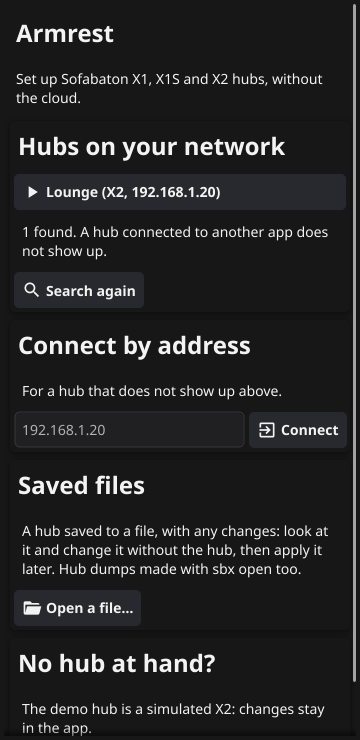
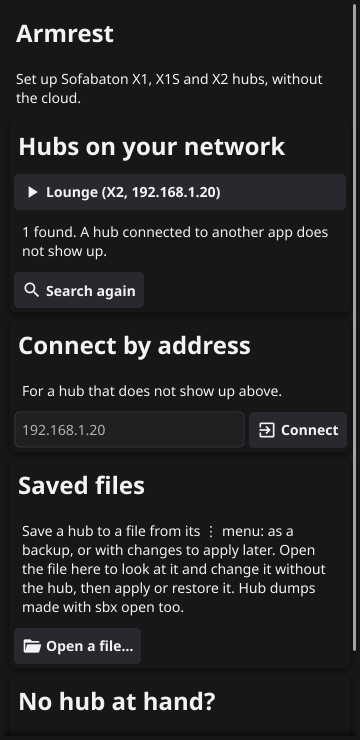
Backup and restore
A saved file is a backup: "Restore to a hub…" in the file's menu, or
applying its changes, makes a hub hold what the file has. On its own
hub as it was, that is just the file's changes. On its hub changed
since (matched by id, so renames are renamed back) or on another hub
(matched by name, the hub's others deleted), the user agrees to a
restore first, then reviews every change. Undo takes it back before
anything is written.

Changed region(s): [[0.0306, 0.6838, 0.9167, 0.9946], [0.6722, 0.9324, 0.8861, 0.9635], [0.9778, 0.8703, 1.0, 0.9324]]

diff --git a/internal/ui/files_test.go b/internal/ui/files_test.go
@@ -2,7 +2,9 @@ package ui
 
 import (
 	"bytes"
+	"context"
 	"io"
+	"net/netip"
 	"strings"
 	"testing"
 	"time"
@@ -11,6 +13,9 @@ import (
 	"fyne.io/fyne/v2/test"
 
 	"github.com/brunoga/armrest/internal/backend"
+	"github.com/brunoga/armrest/internal/demo"
+	"github.com/brunoga/sofabaton/hub"
+	"github.com/brunoga/sofabaton/hubsim"
 )
 
 // memFile is a file the test pickers save to and open.
@@ -95,7 +100,7 @@ func TestFiles(t *testing.T) {
 	}
 }
 
-// A file applied to another hub is refused, and stays open.
+// A file applied to another hub restores it there, once the user agrees.
 func TestFileOtherHub(t *testing.T) {
 	u, w := newApp(t, backend.Hub{Name: "Lounge", Model: "X2", Firmware: 9, Addr: lounge})
 	var f memFile
@@ -105,20 +110,86 @@ func TestFileOtherHub(t *testing.T) {
 	if err := u.work.RemoveActivity("Play PC"); err != nil {
 		t.Fatal(err)
 	}
-	var b bytes.Buffer
 	d := *u.work.Dump
-	d.Info.ID = "0123456789ab"
+	d.Info.ID, d.Info.Name = "0123456789ab", "Bedroom"
 	u.work.Dump = &d
-	if err := u.work.Save(&b, time.Time{}); err != nil {
+	if err := u.work.Save(&f, time.Time{}); err != nil {
 		t.Fatal(err)
 	}
-	f.Write(b.Bytes())
 	menu(t, u, "Disconnect")
 	test.Tap(button(t, w, "Open a file…"))
-	test.Tap(button(t, w, "Review changes"))
-	test.Tap(button(t, w, "Connect to the hub and apply"))
+	menu(t, u, "Restore to a hub…")
 	test.Tap(button(t, w, "Lounge (X2, 192.168.1.20)"))
-	if got := texts(w); !strings.Contains(got, "is not the hub other.armrest is from") || u.file == nil || u.client != nil {
-		t.Fatalf("applied to another hub:\n%s", got)
+	if got := texts(w); !strings.Contains(got, "Restore onto another hub") || !strings.Contains(got, "saved from another hub, Bedroom") {
+		t.Fatalf("not asked:\n%s", got)
+	}
+	test.Tap(button(t, w, "Review"))
+	got := texts(w)
+	if !strings.Contains(got, "Delete activity Play PC") || u.file != nil {
+		t.Fatalf("the restore's review:\n%s", got)
+	}
+	test.Tap(button(t, w, "Apply to the hub"))
+	if got := texts(w); !strings.Contains(got, "Your changes are on the hub.") || listed(u, "Play PC") {
+		t.Fatalf("after restoring:\n%s", got)
+	}
+}
+
+// A backup restored onto its hub, changed since, undoes the change; or
+// Cancel goes back to the file.
+func TestBackup(t *testing.T) {
+	u, w := newApp(t, backend.Hub{Name: "Lounge", Model: "X2", Firmware: 9, Addr: lounge})
+	d, _ := demo.Dump()
+	m, err := d.Model()
+	if err != nil {
+		t.Fatal(err)
+	}
+	sim := hubsim.FromModel(m) // one hub, kept across connections
+	u.back.Dial = func(ctx context.Context, _ netip.Addr) (*hub.Client, error) {
+		return hub.Open(ctx, hubsim.Pipe(sim), hub.Options{})
+	}
+	var f memFile
+	var name string
+	filePickers(u, &f, &name)
+	test.Tap(button(t, w, "Lounge (X2, 192.168.1.20)"))
+	menu(t, u, "Save to a file…")
+	if !strings.Contains(texts(w), "Saved the hub to a file.") {
+		t.Fatalf("saving:\n%s", texts(w))
+	}
+	// The hub changes.
+	if err := u.work.RemoveActivity("Play PC"); err != nil {
+		t.Fatal(err)
+	}
+	u.backToBrowse()
+	test.Tap(button(t, w, "Review changes"))
+	test.Tap(button(t, w, "Apply to the hub"))
+	if listed(u, "Play PC") {
+		t.Fatal("not deleted")
+	}
+	menu(t, u, "Disconnect")
+
+	test.Tap(button(t, w, "Open a file…"))
+	if !listed(u, "Play PC") || u.browse.changes.Visible() {
+		t.Fatal("the backup")
+	}
+	restore := func() {
+		menu(t, u, "Restore to a hub…")
+		test.Tap(button(t, w, "Lounge (X2, 192.168.1.20)"))
+		if got := texts(w); !strings.Contains(got, "The hub changed since") {
+			t.Fatalf("not asked:\n%s", got)
+		}
+	}
+	restore()
+	test.Tap(button(t, w, "Cancel"))
+	if u.client != nil || u.file == nil || !listed(u, "Play PC") {
+		t.Fatal("cancel did not go back to the file")
+	}
+	restore()
+	test.Tap(button(t, w, "Review"))
+	if got := texts(w); !strings.Contains(got, "Add activity Play PC") {
+		t.Fatalf("the restore's review:\n%s", got)
+	}
+	test.Tap(button(t, w, "Apply to the hub"))
+	if got := texts(w); !strings.Contains(got, "Your changes are on the hub.") || !listed(u, "Play PC") || u.work.Changed() {
+		t.Fatalf("after restoring:\n%s", got)
 	}
 }

diff --git a/internal/ui/files.go b/internal/ui/files.go
@@ -149,20 +149,17 @@ func (a *App) applyFile() {
 	a.showHubs()
 }
 
-// adoptFile takes the opened file's changes onto w, its hub just read
-// from h, and reviews them.
+// adoptFile takes the opened file onto w, its hub (or another) just read
+// from h, and reviews what applying it writes. On the hub it was saved
+// from, as it was then, that is the file's changes; on a hub changed
+// since, or on another, applying it restores the file there, which the
+// user agrees to first.
 func (a *App) adoptFile(h backend.Hub, w *workspace.Workspace) {
 	f := a.file
 	info := a.client.Info()
-	if id := hex.EncodeToString(info.ID[:]); id != f.work.Dump.Info.ID {
-		a.Close()
-		a.showHubs()
-		dialog.ShowInformation("Another hub",
-			fmt.Sprintf("%s is not the hub %s is from (%s). Connect to that one to apply the file.", info.Name, f.name, f.work.Dump.Info.Name), a.win)
-		return
-	}
-	a.file = nil
-	if !f.work.Changed() || f.work.SameBase(w) {
+	sameHub := hex.EncodeToString(info.ID[:]) == f.work.Dump.Info.ID
+	if sameHub && f.work.SameBase(w) {
+		a.file = nil
 		w.KeepEdits(f.work)
 		a.work = w
 		a.remember(h, w)
@@ -170,11 +167,32 @@ func (a *App) adoptFile(h backend.Hub, w *workspace.Workspace) {
 		if w.Changed() {
 			a.showReview()
 		} else {
-			a.browse.setStatus(false, "The file has no changes to apply.")
+			a.browse.setStatus(false, "The hub is as the file has it: there is nothing to apply.")
 		}
 		return
 	}
-	// The hub changed since the file's copy of it was read.
-	a.work = f.work
-	a.hubChangedUnderEdits(w)
+	title := "The hub changed since"
+	text := fmt.Sprintf("%s was changed since %s was saved. Applying the file makes the hub as the file has it again, undoing those changes too.", info.Name, f.name)
+	if !sameHub {
+		title = "Restore onto another hub"
+		text = fmt.Sprintf("%s was saved from another hub, %s. Applying it makes %s hold what the file has: devices and activities are matched by name, those it lacks are added, and its others are deleted.", f.name, f.work.Dump.Info.Name, info.Name)
+	}
+	text += " You see every change before anything is written."
+	dialog.NewCustomConfirm(title, "Review", "Cancel", wrapped(text), func(ok bool) {
+		if !ok {
+			// Back to the file, as it was.
+			a.Close()
+			a.showFile()
+			return
+		}
+		if err := w.Restore(f.work.Config, sameHub); err != nil {
+			dialog.ShowError(fmt.Errorf("the file cannot be restored: %w", err), a.win)
+			return
+		}
+		a.file = nil
+		a.work = w
+		a.remember(h, w)
+		a.showBrowse(h)
+		a.showReview()
+	}, a.win).Show()
 }

diff --git a/internal/workspace/file_test.go b/internal/workspace/file_test.go
@@ -46,3 +46,65 @@ func TestSaveOpen(t *testing.T) {
 		}
 	}
 }
+
+// A file restored onto a hub is matched to it by name, whatever its ids:
+// applying makes the hub hold the file.
+func TestRestore(t *testing.T) {
+	ctx := context.Background()
+	file := demoWorkspace(t)
+	if err := file.RemoveActivity("Play PC"); err != nil {
+		t.Fatal(err)
+	}
+	e, _ := file.EditDevice("Receiver")
+	e.Brand = "Marantz"
+	if err := file.SaveDevice(e); err != nil {
+		t.Fatal(err)
+	}
+	// Another hub's ids.
+	for _, d := range file.Config.Devices {
+		d.ID += 50
+	}
+	for _, a := range file.Config.Activities {
+		a.ID += 50
+	}
+
+	w := demoWorkspace(t)
+	if err := w.Restore(file.Config, false); err != nil {
+		t.Fatal(err)
+	}
+	if w.DeviceState(w.Config.Device("Receiver")) != Edited || w.DeviceState(w.Config.Device("3D Player")) != Unchanged {
+		t.Fatal("not matched by name")
+	}
+	p, err := w.Plan(ctx)
+	if err != nil {
+		t.Fatal(err)
+	}
+	if got := titles(p); got != "Change device Receiver\nDelete activity Play PC" && got != "Delete activity Play PC\nChange device Receiver" {
+		t.Fatalf("plan:\n%s", got)
+	}
+	if w.Undo() != "restoring the file" || w.Changed() {
+		t.Fatal("undo")
+	}
+}
+
+// Restored onto its own hub, a file keeps its ids: what was renamed on
+// the hub since is renamed back.
+func TestRestoreSameHub(t *testing.T) {
+	file := demoWorkspace(t)
+	w := demoWorkspace(t)
+	e, _ := w.EditDevice("Receiver")
+	e.Name = "AVR"
+	if err := w.SaveDevice(e); err != nil {
+		t.Fatal(err)
+	}
+	// As if the hub had been changed so, and read again.
+	w.base = w.Config
+	w.undo = nil
+	if err := w.Restore(file.Config, true); err != nil {
+		t.Fatal(err)
+	}
+	d := w.Config.Device("Receiver")
+	if d == nil || w.DeviceState(d) != Edited || len(w.Config.Devices) != 3 {
+		t.Fatalf("devices %+v", w.Config.Devices)
+	}
+}

diff --git a/internal/workspace/file.go b/internal/workspace/file.go
@@ -6,9 +6,11 @@ import (
 	"errors"
 	"fmt"
 	"io"
+	"strings"
 	"time"
 
 	"github.com/brunoga/sofabaton/dump"
+	"github.com/brunoga/sofabaton/profile"
 )
 
 // Format is the version of the workspace files Save writes.
@@ -78,4 +80,40 @@ func Open(ctx context.Context, r io.Reader) (*Workspace, time.Time, error) {
 		}
 	}
 	return w, f.Saved, nil
+}
+
+// Restore makes cfg, another hub's configuration or this hub's read
+// before, the workspace's edits: applying them makes the hub hold cfg.
+// Undo takes it back. Devices and activities are matched to the hub's by
+// id when sameHub (a rename since is renamed back), else by name (ids are
+// another hub's); those the hub lacks are new, and the hub's that cfg
+// lacks are deleted.
+func (w *Workspace) Restore(cfg *profile.Config, sameHub bool) error {
+	c, err := cloneConfig(cfg)
+	if err != nil {
+		return err
+	}
+	devNames, actNames := map[string]uint8{}, map[string]uint8{}
+	devIDs, actIDs := map[uint8]bool{}, map[uint8]bool{}
+	for _, d := range w.base.Devices {
+		devNames[strings.ToLower(d.Name)], devIDs[d.ID] = d.ID, true
+	}
+	for _, a := range w.base.Activities {
+		actNames[strings.ToLower(a.Name)], actIDs[a.ID] = a.ID, true
+	}
+	for _, d := range c.Devices {
+		if !sameHub || !devIDs[d.ID] {
+			d.ID = devNames[strings.ToLower(d.Name)]
+		}
+	}
+	for _, a := range c.Activities {
+		if !sameHub || !actIDs[a.ID] {
+			a.ID = actNames[strings.ToLower(a.Name)]
+		}
+	}
+	if err := c.Validate(); err != nil {
+		return err
+	}
+	w.commit(c, "restoring the file")
+	return nil
 }

diff --git a/internal/ui/home.go b/internal/ui/home.go
@@ -580,7 +580,11 @@ func (s *browseScreen) header(h backend.Hub) fyne.CanvasObject {
 	}
 	sub := widget.NewLabel(detail)
 	sub.Truncation = fyne.TextTruncateEllipsis
-	s.menu = fyne.NewMenu("", fyne.NewMenuItem("Save to a file…", s.app.saveToFile), fyne.NewMenuItemSeparator(), leave)
+	items := []*fyne.MenuItem{fyne.NewMenuItem("Save to a file…", s.app.saveToFile)}
+	if s.app.offline() {
+		items = append(items, fyne.NewMenuItem("Restore to a hub…", s.app.applyFile))
+	}
+	s.menu = fyne.NewMenu("", append(items, fyne.NewMenuItemSeparator(), leave)...)
 	var more *widget.Button
 	more = widget.NewButtonWithIcon("", theme.MoreVerticalIcon(), func() {
 		c := fyne.CurrentApp().Driver().CanvasForObject(more)

diff --git a/internal/ui/hubs.go b/internal/ui/hubs.go
@@ -61,7 +61,7 @@ func (s *hubsScreen) content() fyne.CanvasObject {
 			func() { s.app.connect(backend.DemoHub) }))))
 
 	files := widget.NewCard("Saved files", "", container.NewVBox(
-		wrapped("A hub saved to a file, with any changes: look at it and change it without the hub, then apply it later. Hub dumps made with sbx open too."),
+		wrapped("Save a hub to a file from its ⋮ menu: as a backup, or with changes to apply later. Open the file here to look at it and change it without the hub, then apply or restore it. Hub dumps made with sbx open too."),
 		container.NewHBox(widget.NewButtonWithIcon("Open a file…", theme.FolderOpenIcon(), s.app.openFile))))
 
 	cards := container.NewVBox(title, sub)

diff --git a/PLAN.md b/PLAN.md
@@ -302,10 +302,14 @@ drag-reorder lists.
       opening it (or an sbx dump) from the hubs screen, without the hub:
       browse, edit, undo, review. "Connect to the hub and apply" reads
       its hub whole and reviews the edits against it; a hub changed since
-      asks as for the cache; another hub is refused (until 5c).
-- [ ] Phase 5c: backup and restore: a file applied to a hub that changed
-      since, or to another hub, is a restore (matched by name), with the
-      plan first.
+      asks first (5c).
+- [x] Phase 5c: backup and restore. A saved file is a backup; "Restore
+      to a hub…" (the file's menu) or applying its changes makes a hub
+      hold what the file has. On its own hub as it was, that is the
+      file's changes; on its hub changed since (matched by id: renames
+      are renamed back) or on another hub (matched by name; the hub's
+      others are deleted), the user agrees to a restore first, then
+      reviews it. Undo takes it back before applying.
 - [ ] Later in the editors: the remote's drawing for keys (the list of
       keys is long on a phone). Edits
       change the workspace's config; Review applies it to a fresh
